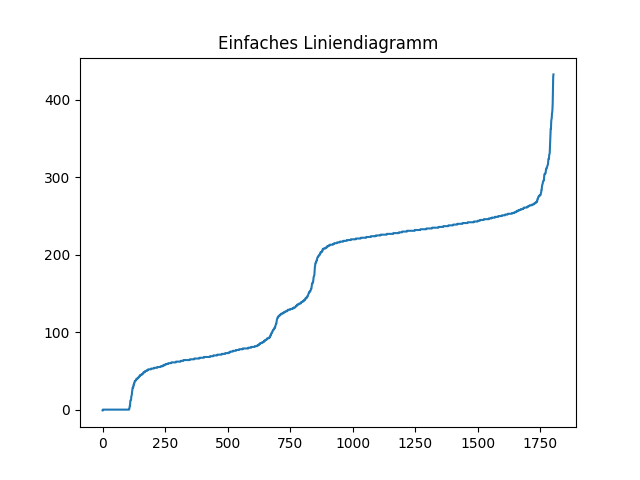
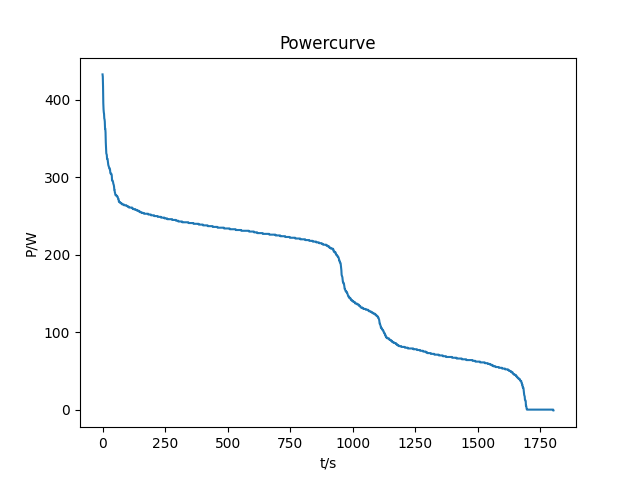
Inverted powercurve + updated readme

diff --git a/source/main.py b/source/main.py
@@ -10,12 +10,9 @@ if __name__ == "__main__":
     sorted_power_W = bubble_sort(power_W)
     print(sorted_power_W[::-1])     
 
-plt.plot(sorted_power_W[::-1])
-
-# Achsenbeschriftungen hinzufügen
-# Titel hinzufügen
-# plt.title('Einfaches Liniendiagramm')
-
-# Diagramm anzeigen
-plt.savefig('figures/sortetpower.png')
-plt.show()
+    plt.plot(sorted_power_W[::-1])
+    plt.title("Powercurve")
+    plt.xlabel("t / s")
+    plt.ylabel("P / W")
+    plt.savefig('figures/sortetpower.png')
+    plt.show()

diff --git a/readme.md b/readme.md
@@ -4,4 +4,4 @@
 - Virtuelles Enviorment aktivieren ```.\.venv\Scripts\activate```
     - Sollte ein Fehler auftreten ```Set-ExecutionPolicy Unrestricted -Scope Process``` ausführen und nochmals aktivieren
 - Packages mit ```pip install -r requirements.txt``` erstellen
-
+- In ```\source``` wechseln und ```python main.py``` ausführen und sich über die Kurve in ```\figures``` freuen
